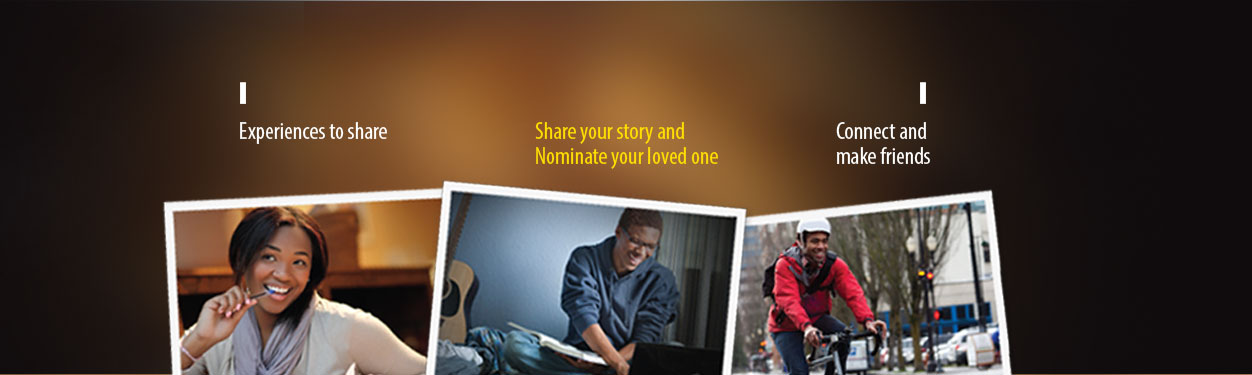
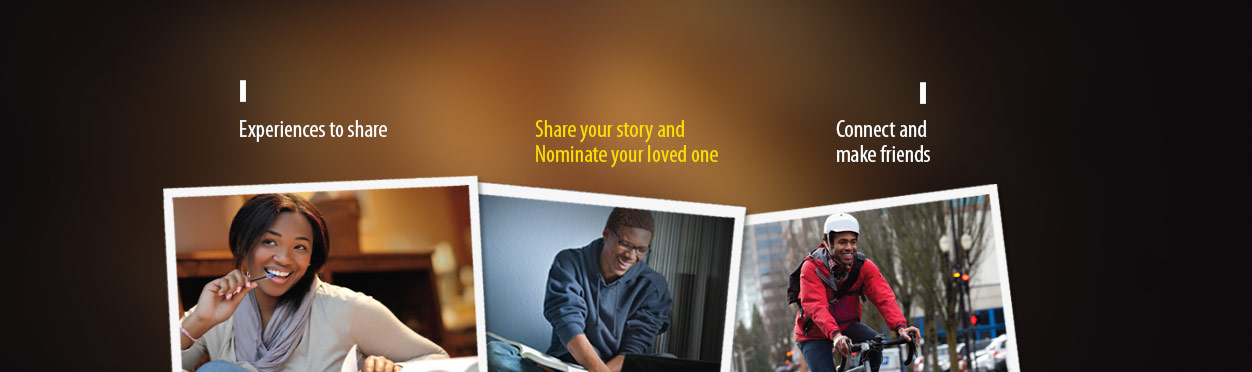
Updated the timeline image and fixed voting

diff --git a/app/models/nominee.rb b/app/models/nominee.rb
@@ -10,7 +10,10 @@ class Nominee < ActiveRecord::Base
 
   def can_be_voted_for_by?(user)
     is_my_story = story.user == user
-    has_already_voted = !votes.select { |v| v.user == user }.empty?
-    !is_my_story && !has_already_voted
+    !is_my_story and !has_already_voted? (user)
+  end
+
+  def has_already_voted?(user)
+    return !votes.select { |v| v.user == user }.empty?
   end
 end

diff --git a/app/models/story.rb b/app/models/story.rb
@@ -21,6 +21,10 @@ class Story < ActiveRecord::Base
     return !picture_file_name.nil?
   end
 
+  def has_voted? user
+    return has_nominee? && nominee.has_already_voted?(user)
+  end
+
   def can_vote_for_story? user
     res = has_nominee? && nominee.can_be_voted_for_by?(user)
   end
